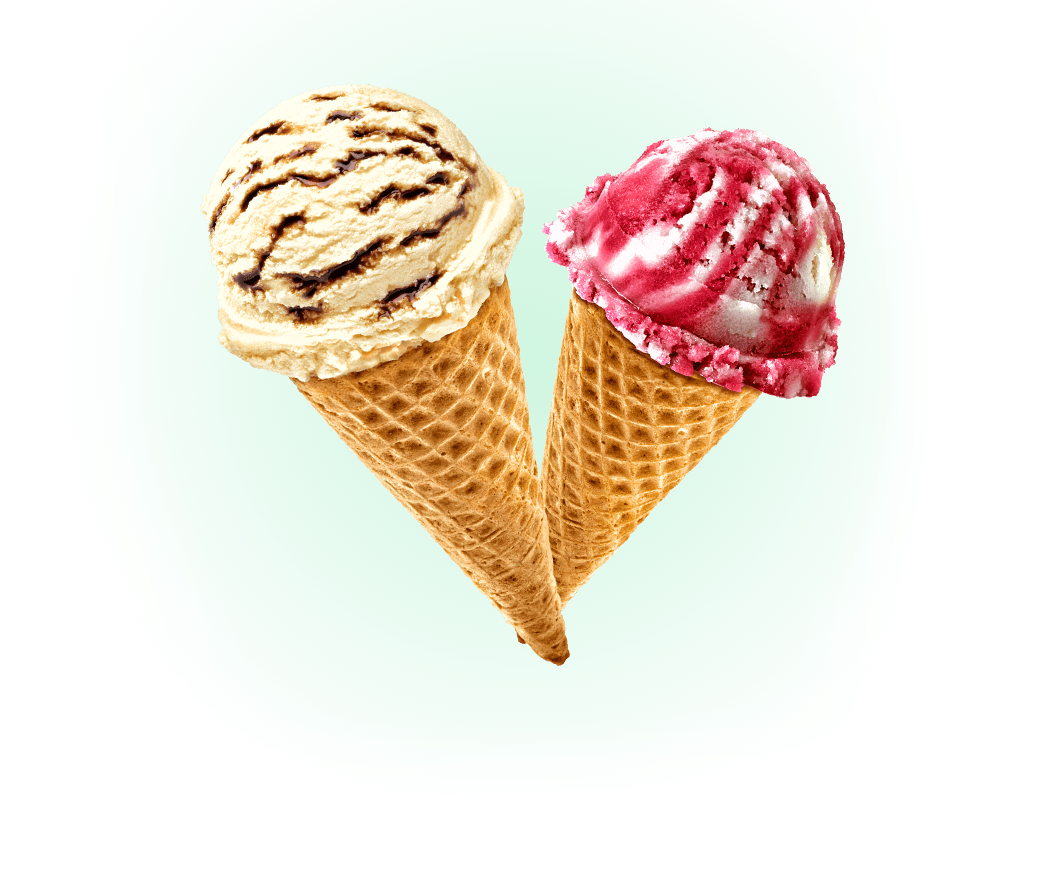
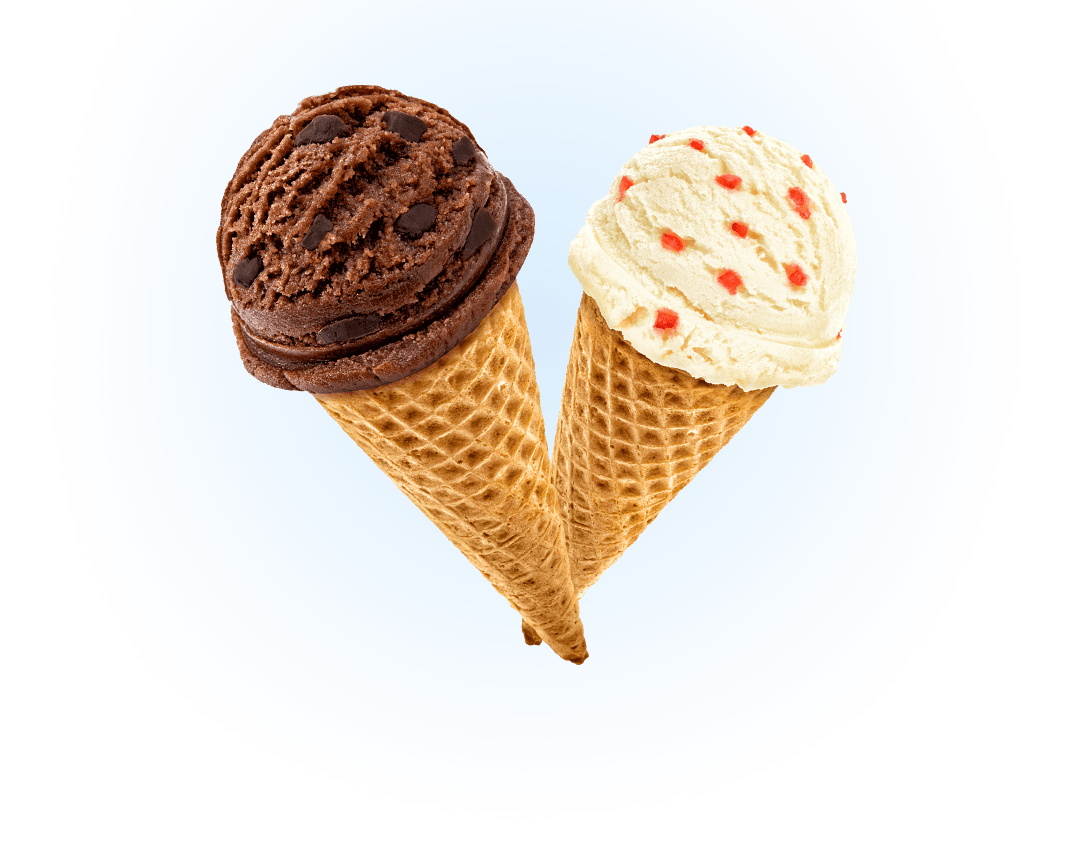
feat: add slider

Changed region(s): [[0.1837, 0.0908, 0.8268, 0.787]]

diff --git a/index.html b/index.html
@@ -7,7 +7,7 @@
 		<link rel="stylesheet" href="css/style.css">
 		<link href="https://fonts.googleapis.com/css?family=Roboto:400,500,700&display=swap&subset=cyrillic" rel="stylesheet">
 	</head>
-	<body>
+	<body class="slider-0">
 		<header class="main-header container">
 			<nav class="main-navigation">
 				<div class="main-logo">
@@ -62,7 +62,7 @@
 							<label class="field-label" for="email">Электронная почта</label>
 						</div>
 						<div class="field-layout">
-							<input class="field-input" id="password" type="password" name="password" placeholder="Пароль">
+							<input class="field-input" id="password" type="password" name="password" placeholder="Пароль" autocomplete="on">
 							<label class="field-label" for="password">Пароль</label>
 						</div>
 						<div class="login-enter">
@@ -97,23 +97,23 @@
 			<section class="slider">
 				<h2 class="visually-hidden">3 лучших предложения</h2>
 				<ul class="slider-list">
-					<li class="slider-item">
+					<li class="slider-item slider-item-active">
 						<p>Крем-брюле и пломбир с малиновым джемом</p>
-						<a class="btn btn-slider" href="catalog-item.html">Давайте оба!</a>
+						<a class="btn btn-slider" href="catalog-item.html" data-counter='0'>Давайте оба!</a>
 					</li>
-					<li class="slider-item hidden">
+					<li class="slider-item">
 						<p>Шоколадный пломбир и лимонный сорбет</p>
-						<a class="btn btn-slider" href="catalog-item.html">Давайте оба!</a>
+						<a class="btn btn-slider" href="catalog-item.html" data-counter='1'>Давайте оба!</a>
 					</li>
-					<li class="slider-item hidden">
+					<li class="slider-item">
 						<p>Пломбир с помадкой и клубничный щербет</p>
-						<a class="btn btn-slider" href="catalog-item.html">Давайте оба!</a>
+						<a class="btn btn-slider" href="catalog-item.html" data-counter='2'>Давайте оба!</a>
 					</li>
 				</ul>
 				<ul class="slider-toggles">
-					<li><button class="slider-toggle slider-toogle-checked" type="button"><span class="visually-hidden">Первый слайд</span></button></li>
-					<li><button class="slider-toggle" type="button"><span class="visually-hidden">Второй слайд</span></button></li>
-					<li><button class="slider-toggle" type="button"><span class="visually-hidden">Третий слайд</span></button></li>
+					<li><button class="slider-toggle slider-toogle-checked" type="button" data-counter='0'><span class="visually-hidden">Первый слайд</span></button></li>
+					<li><button class="slider-toggle" type="button" data-counter='1'><span class="visually-hidden">Второй слайд</span></button></li>
+					<li><button class="slider-toggle" type="button" data-counter='2'><span class="visually-hidden">Третий слайд</span></button></li>
 				</ul>
 			</section>
 			<section class="offers row">
@@ -245,7 +245,7 @@
 					<p class="contacts-description">Для заказов по телефону:</p>
 					<a class="contacts-phone" href="tel:+78124502525">8 812 450-25-25</a>
 					<p class="contacts-description">(с 10 до 20 ежедневно)</p>
-					<a class="btn btn-contact" href="#">Форма обратной связи</a>
+					<button class="btn btn-contact" href="#">Форма обратной связи</button>
 				</div>
 			</section>
 		</main>
@@ -320,20 +320,20 @@
 			</div>
 		</footer>
 		<div class="overlay hidden"></div>
-		<section class="feedback">
+		<section class="feedback hidden">
 			<h2 class="visually-hidden">Форма обратной связи</h2>
 			<p class="feedback-title">Мы обязательно вам ответим!</p>
 			<form class="form" action="https://echo.htmlacademy.ru" method="post">
 				<div class="field-layout">
-					<input class="field-input" type="text" id="feedback-name" name="feedback-name" placeholder="Как вас зовут?" required>
+					<input class="field-input" type="text" id="feedback-name" name="feedback-name" placeholder="Как вас зовут?" autocomplete="on" required>
 					<label class="field-label" for="feedback-name">Как вас зовут?</label>
 				</div>
 				<div class="field-layout">
-					<input class="field-input" type="email" id="feedback-email" name="feedback-email" placeholder="Ваша почта для ответа?">
+					<input class="field-input" type="email" id="feedback-email" name="feedback-email" placeholder="Ваша почта для ответа?" autocomplete="on">
 					<label class="field-label" for="feedback-email">Ваша почта для ответа?</label>
 				</div>
 				<div class="field-layout">
-					<textarea class="field-textarea" id="feedback-msg" name="feedback-txt" placeholder="Напишите что-нибудь" rows="5" cols="33"></textarea>
+					<textarea class="field-textarea" id="feedback-msg" name="feedback-txt" placeholder="Напишите что-нибудь" rows="5" cols="33" required></textarea>
 					<label class="field-label" for="feedback-msg">Напишите что-нибудь</label>
 				</div>
 				<button class="btn" type="submit">Отправить</button>
@@ -341,6 +341,7 @@
 			<button class="close-btn" type="button">
 				<span class="visually-hidden">Закрыть</span>
 			</button>
+			<script src="js/index.js"></script>
 		</section>
 	</body>
 </html>

diff --git a/js/index.js b/js/index.js
@@ -1,0 +1,117 @@
+popup();
+slider();
+
+function slider() {
+    const toggles = document.querySelector('.slider-toggles');
+    const sliderList = document.querySelector('.slider-list');
+    
+    toggles.addEventListener('click', (evt) => {
+        if (evt.target.classList.contains('slider-toogle-checked')) return;
+        
+        if (evt.target.classList.contains('slider-toggle')) {
+            const active = document.querySelector('.slider-toogle-checked');
+            active.classList.remove('slider-toogle-checked');
+            evt.target.classList.add('slider-toogle-checked');
+            const index = evt.target.dataset.counter;
+            
+            const activeSlide = document.querySelector('.slider-item-active');
+            activeSlide.classList.remove('slider-item-active');
+            sliderList.children[index].classList.add('slider-item-active');
+            document.body.className='';
+            document.body.classList.add(`slider-${index}`)
+        }
+    });
+}
+
+function popup() {
+    const btnContact = document.querySelector('.btn-contact');
+    let popup = document.querySelector('.feedback');
+    let overlay = document.querySelector('.overlay');
+    
+    const feedbackName = popup.querySelector('[name=feedback-name]');
+    const feedbackTxt = popup.querySelector('[name=feedback-txt]');
+    const feedbackEmail = popup.querySelector('[name=feedback-email]');
+    
+    const isStorageSupport = true;
+    let storageName = '';
+    let storageEmail = '';
+
+    //trying to use localStorage
+    try {
+        storageName = localStorage.getItem('glassyFeedbackName');
+        storageEmail = localStorage.getItem('glassyFeedbackEmail');
+    } catch {
+        isStorageSupport = false;
+    }
+
+    // catching clicking on button-opener of modal popup
+    btnContact.addEventListener('click', (evt) => {
+        evt.preventDefault();
+        popup.classList.add('modal-show');
+        overlay.classList.remove('hidden');
+
+        // if there we have Name in storage we place it in input for name
+        if (storageName) {		
+            feedbackName.value = storageName;
+            // if there we have Email in storage we place it in input
+            // and place keyboard focus in textarea input
+            if (storageEmail) {
+                feedbackEmail.value = storageEmail;
+                feedbackTxt.focus();
+            //if we haven't Email in storage we place keyboard focus in input for emain
+            } else {
+                feedbackEmail.focus();
+            }
+        //if we haven't Name in storage we place keyboard focus in input for name
+        } else {
+            feedbackName.focus();
+        }
+    });
+    
+    const close = popup.querySelector('.close-btn');
+
+    popup.addEventListener('submit', (evt) => {
+        evt.preventDefault();
+
+        //if inputs for name or textarea is empty we ask user to enter values
+        if (!feedbackName.value || !feedbackTxt.value) {
+            popup.classList.add('modal-error');
+        } else {
+            //if user entered name and textarea values we save name and email in localStorage
+            if (isStorageSupport) {
+                if (feedbackName) {
+                    localStorage.removeItem('glassyFeedbackName');
+                    localStorage.setItem('glassyFeedbackName', feedbackName.value);
+                }
+                if (feedbackEmail) {
+                    localStorage.removeItem('glassyFeedbackEmail');
+                    localStorage.setItem('glassyFeedbackEmail', feedbackEmail.value);
+                }
+            }
+            closeModal(popup, overlay);
+        }
+    });
+
+    //Closing modal popup on close button inside modal popup
+    close.addEventListener('click', (evt) => {
+        evt.preventDefault();
+        closeModal(popup, overlay);
+    });
+
+    //Closing modal popup by ESC
+    window.addEventListener('keydown', (evt) => {
+        if (evt.keyCode === 27) {
+            evt.preventDefault();
+            if (popup.classList.contains('modal-show')) closeModal(popup, overlay);
+        }
+    });
+
+    //Closing modal popup by clicking somewhere outside of this popup
+    overlay.addEventListener('click', () => closeModal(popup, overlay))
+}
+
+function closeModal(popup, overlay) {
+    popup.classList.remove('modal-show');
+    popup.classList.remove('modal-error');
+    overlay.classList.add('hidden');	
+}

diff --git a/css/style.css b/css/style.css
@@ -10,10 +10,23 @@ body {
 	color: rgb(255, 255, 255);
 	word-break: break-word;
 
-	background-color: rgb(132, 157, 143);
-	background-image: url(../img/slider-1.png);
 	background-repeat: no-repeat;
 	background-position: top center;
+}
+
+.slider-0 {
+	background-color: rgb(132, 157, 143);
+	background-image: url(../img/slider-0.png);
+}
+
+.slider-1 {
+	background-color: rgb(137, 150, 166);
+	background-image: url(../img/slider-1.png);
+}
+
+.slider-2 {
+	background-color: rgb(157, 139, 132);
+	background-image: url(../img/slider-2.png);
 }
 
 a {
@@ -380,7 +393,8 @@ a {
 }
 
 .user-navigation-item:hover .search-form,
-.user-navigation-item:focus .search-form {
+.user-navigation-item:focus .search-form,
+.user-navigation-item:focus-within .search-form {
 	display: block;
 }
 
@@ -408,7 +422,8 @@ a {
 }
 
 .user-navigation-item:hover .login-form,
-.user-navigation-item:focus .login-form {
+.user-navigation-item:focus .login-form,
+.user-navigation-item:focus-within .login-form {
 	display: block;
 }
 
@@ -699,6 +714,12 @@ a {
 	line-height: 60px;
 	font-weight: 700;
 	text-align: center;
+	
+	display: none;
+}
+
+.slider-item-active {
+	display: block;
 }
 
 .slider-item p {
@@ -740,9 +761,10 @@ a {
 	background: transparent;
 	border: 2px solid rgb(255, 255, 255);
 	border-radius: 50%;
+
+	cursor: pointer;
 }
 
-.slider-toggle:focus,
 .slider-toggle:hover {
 	background-color: rgba(255, 255, 255, .4);
 	outline: none;
@@ -750,6 +772,11 @@ a {
 
 .slider-toogle-checked,
 .slider-toggle:active {
+	background-color: rgb(255, 255, 255);
+}
+
+.slider-toogle-checked:focus,
+.slider-toogle-checked:hover {
 	background-color: rgb(255, 255, 255);
 	outline: none;
 }
@@ -771,7 +798,7 @@ a {
 	text-align: right;
 
 	background-position: top left;
-	background-repeat: repeat;
+	background-size: cover;
 	border-radius: 15px;
 }
 
@@ -1304,6 +1331,7 @@ a {
 
 .btn-contact {
 	margin-top: 20px;
+	padding: 10px 20px;
 }
 /*END of Contacts*/
 
@@ -1877,8 +1905,6 @@ a {
 	border-radius: 10px;
 
 	z-index: 9999;
-
-	display: none;
 }
 
 .feedback .form {
@@ -1908,6 +1934,10 @@ a {
 	height: 150px;
 	margin-bottom: 20px;
 	padding-top: 10px;
+}
+
+.modal-show {
+	display: block;
 }
 
 /*Feedback Close Button*/
@@ -1959,7 +1989,7 @@ a {
 	width: 100%;
 	height: 100%;
 
-	background-color: rgba(0, 0, 0, .3);
+	background-color: rgba(0, 0, 0, .7);
 
 	z-index: 9999;
 }

diff --git a/Readme.md b/Readme.md
@@ -1,43 +1,4 @@
-# Личный проект «Глейси»
+# Проект «Глейси»
 
 * Студент: [Айнур Шауэрман].
 * Наставник: [Юлия Максимова].
-
----
-
-_Не удаляйте и не обращайте внимание на файлы:_<br>
-_`.editorconfig`, `.gitattributes`, `.gitignore`, `Contributing.md`, `Readme.md`._
-
----
-
-### Памятка
-
-#### 1. Зарегистрируйтесь на Гитхабе
-
-Если у вас ещё нет аккаунта на [github.com](https://github.com/join), скорее зарегистрируйтесь.
-
-#### 2. Создайте форк
-
-[Откройте мастер-репозиторий](https://github.com/frontender-training/gllacy-base-23) и нажмите кнопку «Fork» в правом верхнем углу. Репозиторий из Академии скопируется в ваш аккаунт.
-
-<img width="769" alt="" src="https://user-images.githubusercontent.com/10909/29037742-a62a72a0-7bad-11e7-9f36-4db8e9329498.jpg">
-
-Получится вот так:
-
-<img width="769" alt="" src="https://user-images.githubusercontent.com/10909/29037746-a760c82c-7bad-11e7-89ab-7c99998d4317.jpg">
-
-#### 3. Клонируйте репозиторий на свой компьютер
-
-Будьте внимательны: нужно клонировать свой репозиторий (форк), а не репозиторий Академии. Нажмите кнопку «Clone or download», а затем «Open in Desktop», чтобы клонировать репозиторий через программу [GitHub Desktop](https://desktop.github.com):
-
-<img width="769" alt="" src="https://user-images.githubusercontent.com/10909/29037747-a8e89422-7bad-11e7-819d-bca9f4c1de18.jpg">
-
-Программа клонирует репозиторий на ваш компьютер и подготовит всё необходимое для старта работы.
-
-#### 4. Начинайте обучение!
-
----
-
-<a href="https://htmlacademy.ru/intensive/htmlcss"><img align="left" width="50" height="50" alt="HTML Academy" src="https://up.htmlacademy.ru/static/img/intensive/htmlcss/logo-for-github-2.png"></a>
-
-Репозиторий создан для обучения на профессиональном онлайн‑курсе «[HTML и CSS, уровень 1](https://htmlacademy.ru/intensive/htmlcss)» от [HTML Academy](https://htmlacademy.ru).
